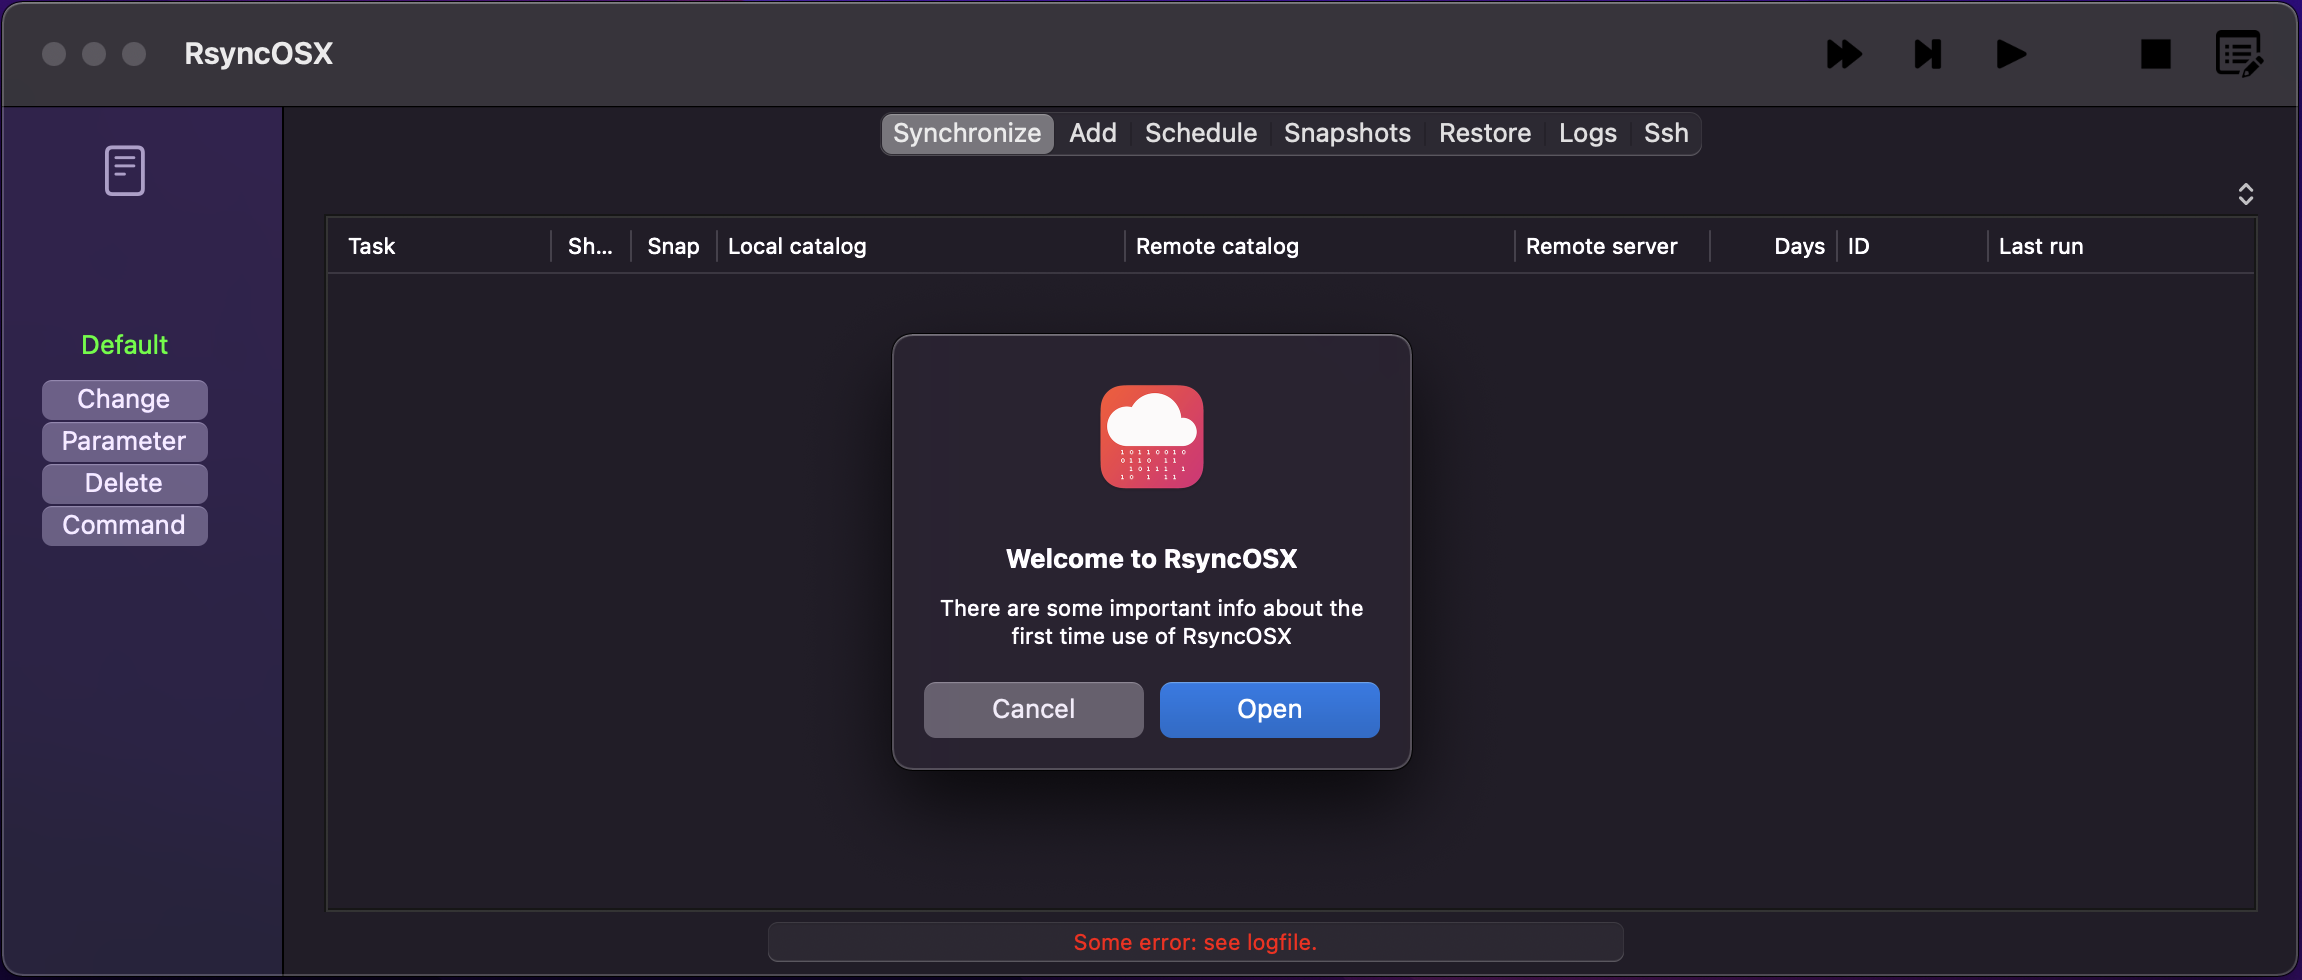
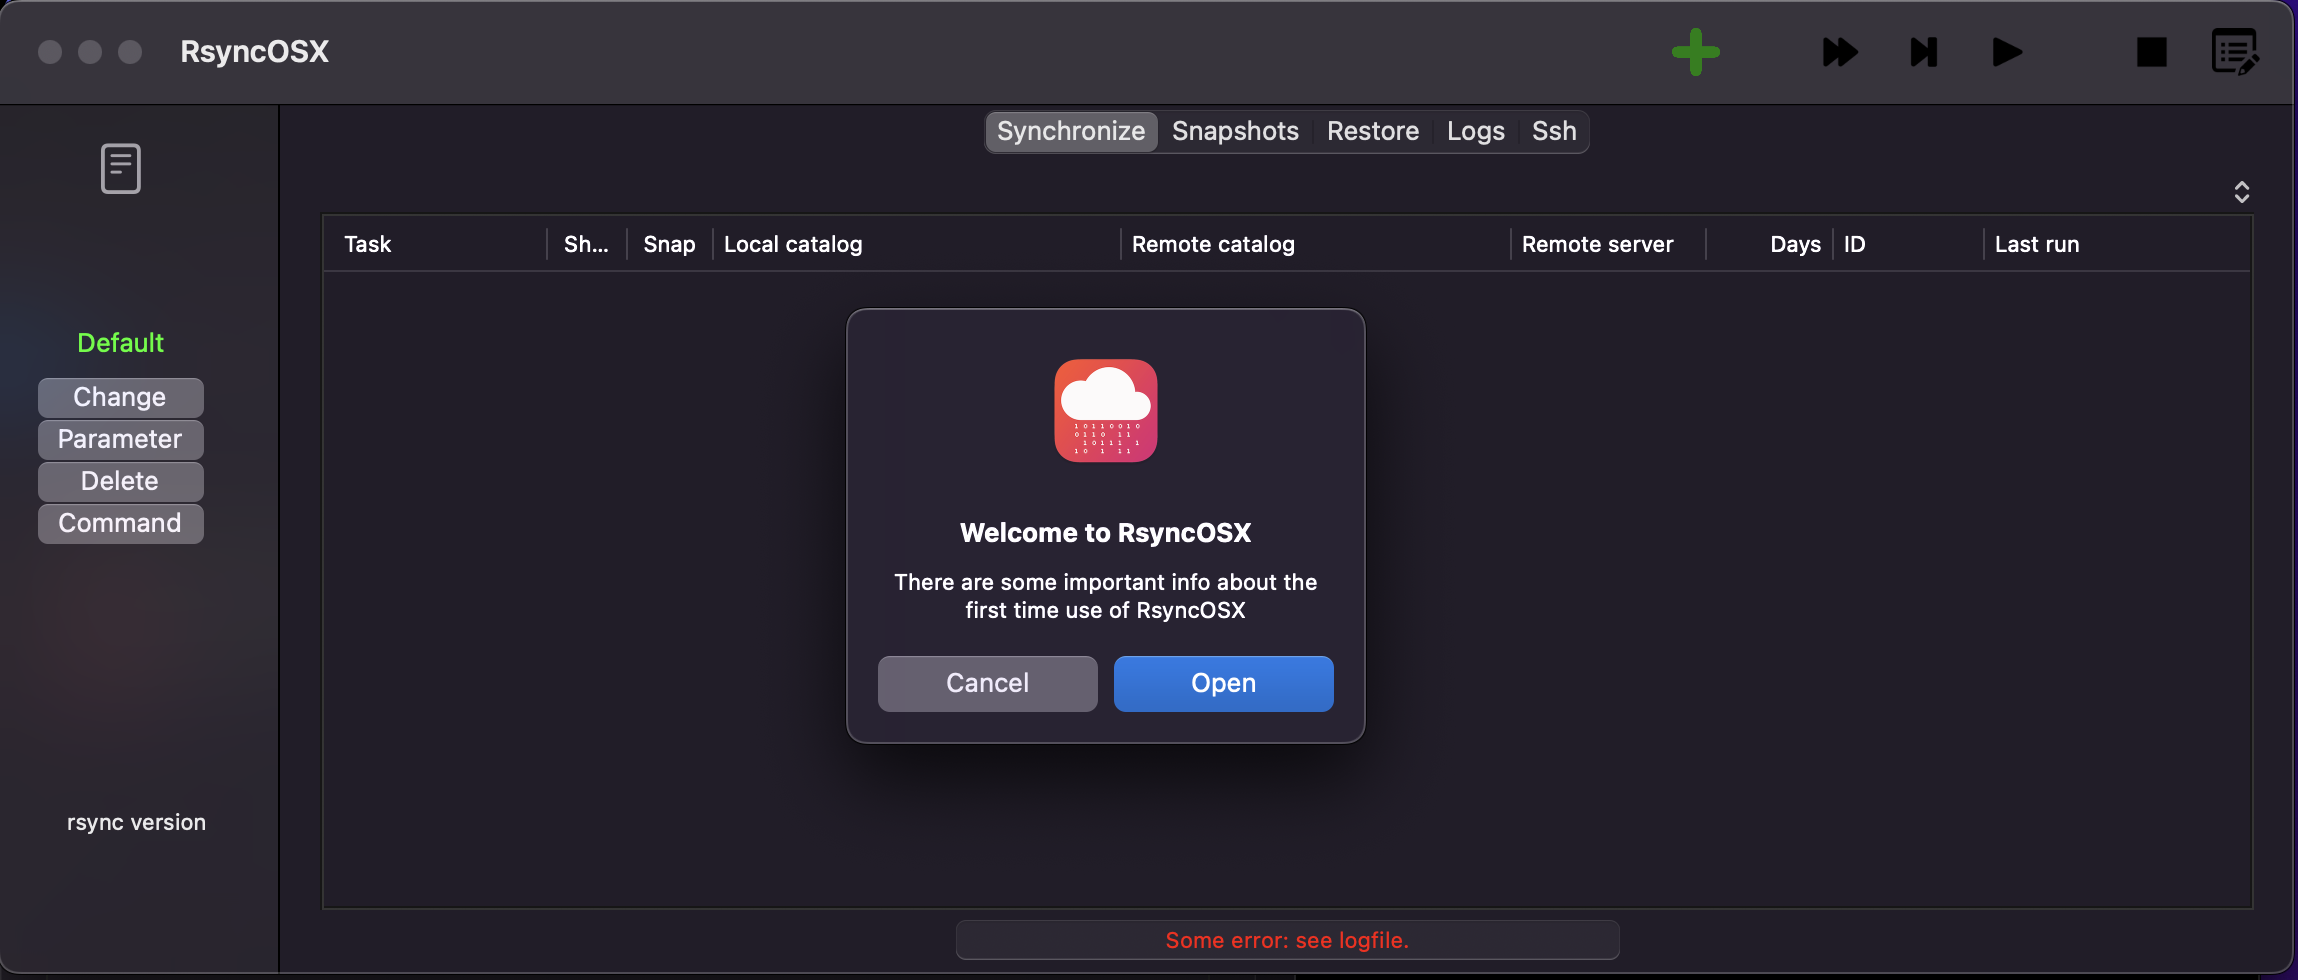
update

diff --git a/content/post/AddConfigurations.md b/content/post/AddConfigurations.md
@@ -9,6 +9,10 @@ lastmod = "2020-12-13"
 +++
 A task require minimum a **local catalog** and a **remote catalog**. After entering information about a task select the `Add` button to add it to RsyncOSX. Continue adding new tasks until completed and tasks are saved to permanent storage after each entry. Select local catalog either by GUI, drag and drop or by enter text directly.
 
+Add is selected by chossing the green plus sign in top main menu.
+
+{{< image src="/images/RsyncOSX/master/add/addmain.png" alt="" position="center" style="border-radius: 8px;" >}}
+
 For remote catalogs only drag and drop for local attached volumes. For remote server catalogs enter by text only.
 
 {{< image src="/images/RsyncOSX/master/add/add.png" alt="" position="center" style="border-radius: 8px;" >}}
@@ -51,15 +55,13 @@ The shell scripts names and locations is selected by the user.
 
 Select the `Add` button when completed and task is added to RsyncOSX. RsyncOSX adds a trailing / character to both local and remote volume. After selecting the Add button another task might be added. Any changes (edit or delete) to tasks are done from the Synchronize view.
 
-## Assist
+## Local and Remote buttons
 
 The main objective for the assist function is to ease adding tasks. Assist picks up the following:
 
 - the name of all catalogs within your home directory
 - the path of your home directory
 - and if there are added tasks, remote server and remote user from the current profile
-
-There is not possible to save, change or delete values in assist.
 
 Selecting `Local` or `Remote` transfer the data to the add new task. The following is transferred from the selected dropdown values to the add view when selecting either `Local` or `Remote`:
 

diff --git a/content/post/Changelog.md b/content/post/Changelog.md
@@ -11,6 +11,12 @@ RsyncOSX is [signed and notarized](/post/notarized/). Please see info about [the
 
 Using RsyncOSX requires some knowledge of `rsync`. The main objective for RsyncOSX is to ease the use of `rsync`, not teach macOS users how to use `rsync`. That is beyond the scope of RsyncOSX. Setting the wrong parameters to rsync can result in deleted data. And RsyncOSX will not stop you for doing so. That is why it is very important to execute a simulated run (`--dry-run`) and inspect what happens before a real run.
 
+## Version 6.7.2 build (16)
+
+Date: 13 April 2022
+
+Compiled on Apple Silicon (M1 Pro) by Xcode 13.3 as a Universal macOS Binary.
+
 ## Version 6.7.1 build (15)
 
 Date: 21 February 2022
